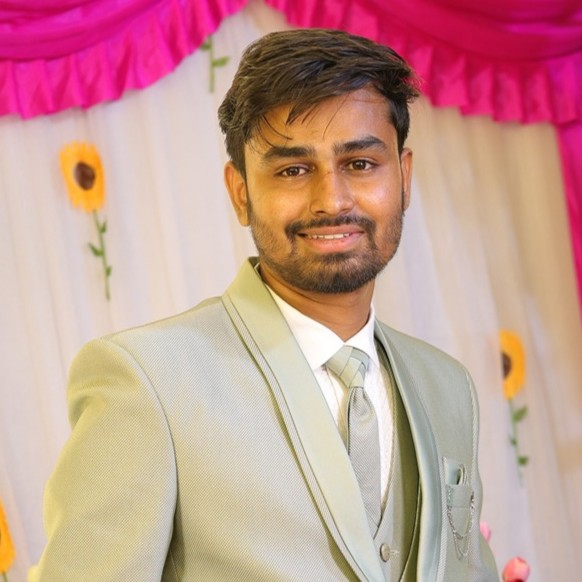
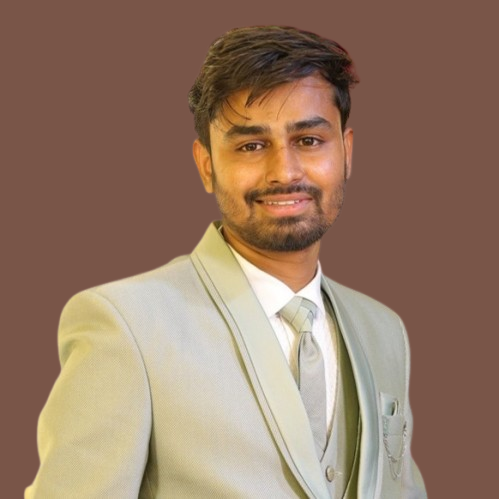
project changed

diff --git a/index.html b/index.html
@@ -154,9 +154,9 @@
                     <h2>Skills</h2>
                     <div class="skills">
                         <div class="skill">Python</div>
-                        <div class="skill">C</div>
+                        <div class="skill">uiux</div>
                         <div class="skill">Machine Learning</div>
-                        <div class="skill">TensorFlow</div>
+                        <div class="skill">PowerBI</div>
                     </div>
                 </section>
 
@@ -169,8 +169,8 @@
                                 <div class="meta">
                                     <h3>AgriVision — Real-time pesticide residue detection</h3>
                                 </div>
-                                <p>AgriVision is a cross-platform solution (mobile and desktop) that detects pesticide residues on fruits using computer vision and machine learning. The system combines high-quality image preprocessing with a lightweight, optimized model to provide quick, on-device inference using TensorFlow Lite. A Flutter front-end enables a responsive user experience for field technicians and consumers, while a Python/OpenCV backend handles image enhancement and dataset curation.</p>
-                                <p>Key features include real-time on-device inference, adaptive preprocessing pipelines to handle varied lighting conditions, a model trained with augmented datasets to improve robustness, and an intuitive mobile UI for capturing and reviewing results. AgriVision is designed to be efficient, privacy-preserving, and deployable in low-connectivity environments.</p>
+                                <p>AgriVision is a machine learning-based application designed to detect pesticide residues on fruits through advanced image processing techniques. This system employs robust image preprocessing methods in conjunction with a Convolutional Neural Network (CNN) model to analyze fruit images, classifying them as either contaminated or safe. Developed as a practical prototype, AgriVision is specifically focused on real-world agricultural applications, providing a tangible solution for food safety assessment.</p>
+                                <p></p>
                                 <div class="tech" style="margin-top:12px">
                                     <span class="chip">Python</span>
                                     <span class="chip">TensorFlow Lite</span>
@@ -197,8 +197,7 @@
                             <div class="meta">
                                 <h3>Fake News Detection using LLM</h3>
                             </div>
-                            <p>This project applies transformer-based models and classical NLP techniques to detect misleading or fabricated news content. The system combines TF-IDF features and careful preprocessing with transformer embeddings to capture both lexical patterns and contextual semantics. The pipeline includes data collection, deduplication, label quality checks, and training with a focus on calibration to reduce false positives.</p>
-                            <p>The detection stack leverages established transformer encoders fine-tuned for classification, alongside feature-based models for explainability. Outputs include a probability score, a rationale produced from attention highlights, and suggestions for manual review when confidence is low.</p>
+                            <p>The Fake News Detection system is a natural language processing-based solution engineered to classify news articles as real or fake. It leverages TF-IDF for efficient feature extraction and utilizes a Passive Aggressive Classifier for accurate categorization. Furthermore, the integration of a Large Language Model (LLM) significantly enhances contextual understanding and deepens the analysis of news content, contributing to more reliable detection of misinformation.</p>
                             <div class="tech">
                                 <span class="chip">Python</span>
                                 <span class="chip">NLP</span>
